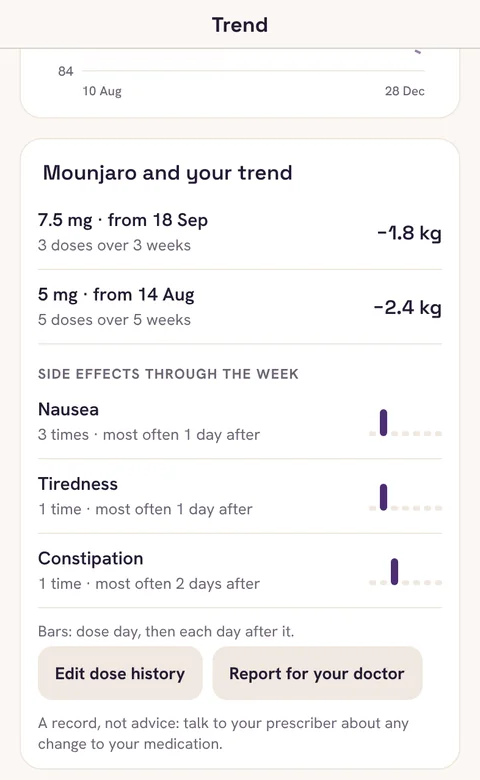
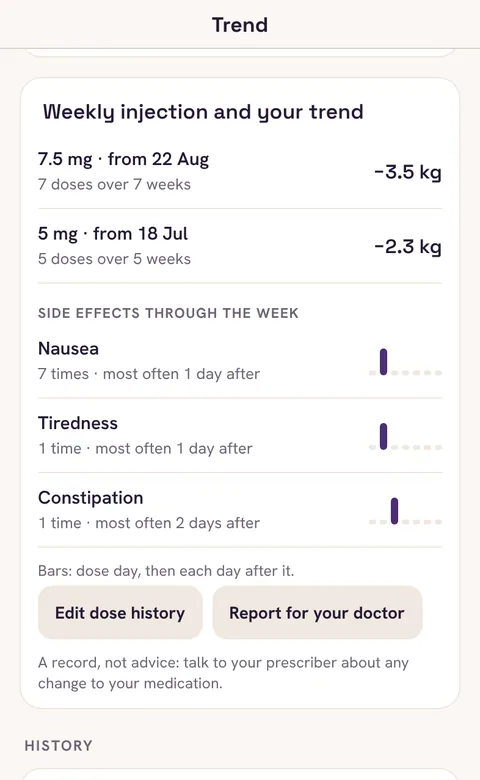
Tiles size to their content; site images without a drug brand name
- A Today tile with no chart no longer keeps an empty space for one.
- Re-shot the Today, hide-my-weight, dose and side-effects deck images
  from the current build, with a generic 'weekly injection' instead of a
  brand name; alt text to match.

Claude-Session: https://claude.ai/code/session_01NJzQ8Sbwud31aT5mXSmaWd

diff --git a/site/index.html b/site/index.html
@@ -390,7 +390,7 @@
       <div class="deck" id="deck" role="region" aria-roledescription="carousel" aria-label="What Tidemark does" tabindex="0">
         <div class="deck-pile">
           <figure class="deck-card tone-plum">
-            <div class="deck-screen"><img src="shots/deck/today.webp" width="480" height="780" alt="The Today screen: trend weight 88.2 kg with the last 30 days charted behind it, progress from 92 towards 84 kg, on track, and today’s list starting with the weigh-in ticked off." loading="lazy" decoding="async" draggable="false"></div>
+            <div class="deck-screen"><img src="shots/deck/today.webp" width="480" height="780" alt="The Today screen: trend weight 89.2 kg with the last 30 days charted behind it, progress from 95 towards 80 kg, on track, and today’s list starting with the weigh-in ticked off." loading="lazy" decoding="async" draggable="false"></div>
             <figcaption><span class="tag tag-now">In the app</span><h3>Today, at a glance</h3><p>Your trend with the last 30 days behind it: the weigh-ins jump about, the trend stays calm, and the plan is the dashed line.</p></figcaption>
           </figure>
           <figure class="deck-card tone-deep">
@@ -414,7 +414,7 @@
             <figcaption><span class="tag tag-now">In the app</span><h3>Consistency you can see</h3><p>Thirty days of each habit at a glance, and how often it really happens, not how long a streak lasted.</p></figcaption>
           </figure>
           <figure class="deck-card tone-plum">
-            <div class="deck-screen"><img src="shots/deck/hide.webp" width="480" height="780" alt="Today with hide my weight on: the headline says Trending down, 0.5 kg this week, with no weight shown." loading="lazy" decoding="async" draggable="false"></div>
+            <div class="deck-screen"><img src="shots/deck/hide.webp" width="480" height="780" alt="Today with hide my weight on: the headline says Trending down, 0.5 kg this week, and progress shows as 39% of the way, with no weight shown." loading="lazy" decoding="async" draggable="false"></div>
             <figcaption><span class="tag tag-now">In the app</span><h3>See the trend, not the number</h3><p>Turn on Hide my weight and Tidemark shows which way you’re heading and by how much. Never the weight itself.</p></figcaption>
           </figure>
           <figure class="deck-card tone-deep">
@@ -422,11 +422,11 @@
             <figcaption><span class="tag tag-now">In the app</span><h3>Reached your goal? Hold it.</h3><p>Switch to holding and Tidemark keeps you within a range. It stops counting further loss as progress.</p></figcaption>
           </figure>
           <figure class="deck-card tone-warm">
-            <div class="deck-screen"><img src="shots/deck/dose.webp" width="480" height="780" alt="A dose card: Mounjaro due today, 7.5 mg, with injection sites to choose and the one used longest ago picked." loading="lazy" decoding="async" draggable="false"></div>
+            <div class="deck-screen"><img src="shots/deck/dose.webp" width="480" height="780" alt="A dose card: a weekly injection due today, 7.5 mg, with injection sites to choose and the one used longest ago picked." loading="lazy" decoding="async" draggable="false"></div>
             <figcaption><span class="tag tag-now">In the app</span><h3>Your medication, logged</h3><p>Mark a weekly GLP-1 dose as taken and get a dose-day reminder, free. With Plus, rotate injection sites and note how you feel.</p></figcaption>
           </figure>
           <figure class="deck-card tone-plum">
-            <div class="deck-screen"><img src="shots/deck/effects.webp" width="480" height="780" alt="How the trend moved at each dose of Mounjaro, and side effects through the week: nausea most often the day after a dose." loading="lazy" decoding="async" draggable="false"></div>
+            <div class="deck-screen"><img src="shots/deck/effects.webp" width="480" height="780" alt="How the trend moved at each dose of a weekly injection, and side effects through the week: nausea most often the day after a dose." loading="lazy" decoding="async" draggable="false"></div>
             <figcaption><span class="tag tag-plus">Plus</span><h3>Your trend at each dose</h3><p>See how your trend moved on each dose, and when side effects tend to show up after one.</p></figcaption>
           </figure>
           <figure class="deck-card tone-deep">

diff --git a/mobile/src/components/Insights.tsx b/mobile/src/components/Insights.tsx
@@ -42,8 +42,9 @@ export function Tile({ icon, label, value, valueColor, sub, spark, children, onP
   wide?: boolean;   // one tile per row (very large text)
 }) {
   const [w, setW] = useState(0);
+  const plain = !spark && !children;   // nothing to draw underneath: no room kept for a chart that never comes
   return (
-    <Tap onPress={onPress} style={[s.tile, wide && s.tileWide]}
+    <Tap onPress={onPress} style={[s.tile, wide && s.tileWide, plain && { minHeight: 0 }]}
       accessibilityRole="button" accessibilityLabel={a11y} accessibilityHint={`Opens ${label}`}>
       <View style={s.tileHead}>
         <Icon name={icon} size={16} color={C.inkSoft} />
@@ -52,9 +53,9 @@ export function Tile({ icon, label, value, valueColor, sub, spark, children, onP
       </View>
       <Text style={[s.tileValue, valueColor ? { color: valueColor } : null]} numberOfLines={1} adjustsFontSizeToFit maxFontSizeMultiplier={1.3}>{value}</Text>
       {sub ? <Text style={s.tileSub} numberOfLines={2} maxFontSizeMultiplier={1.5}>{sub}</Text> : null}
-      <View style={{ marginTop: 'auto', paddingTop: 10 }} onLayout={e => setW(e.nativeEvent.layout.width)}>
+      {!plain && <View style={{ marginTop: 'auto', paddingTop: 10 }} onLayout={e => setW(e.nativeEvent.layout.width)}>
         {spark && w > 0 ? <Sparkline points={spark} width={w} /> : children}
-      </View>
+      </View>}
     </Tap>
   );
 }
